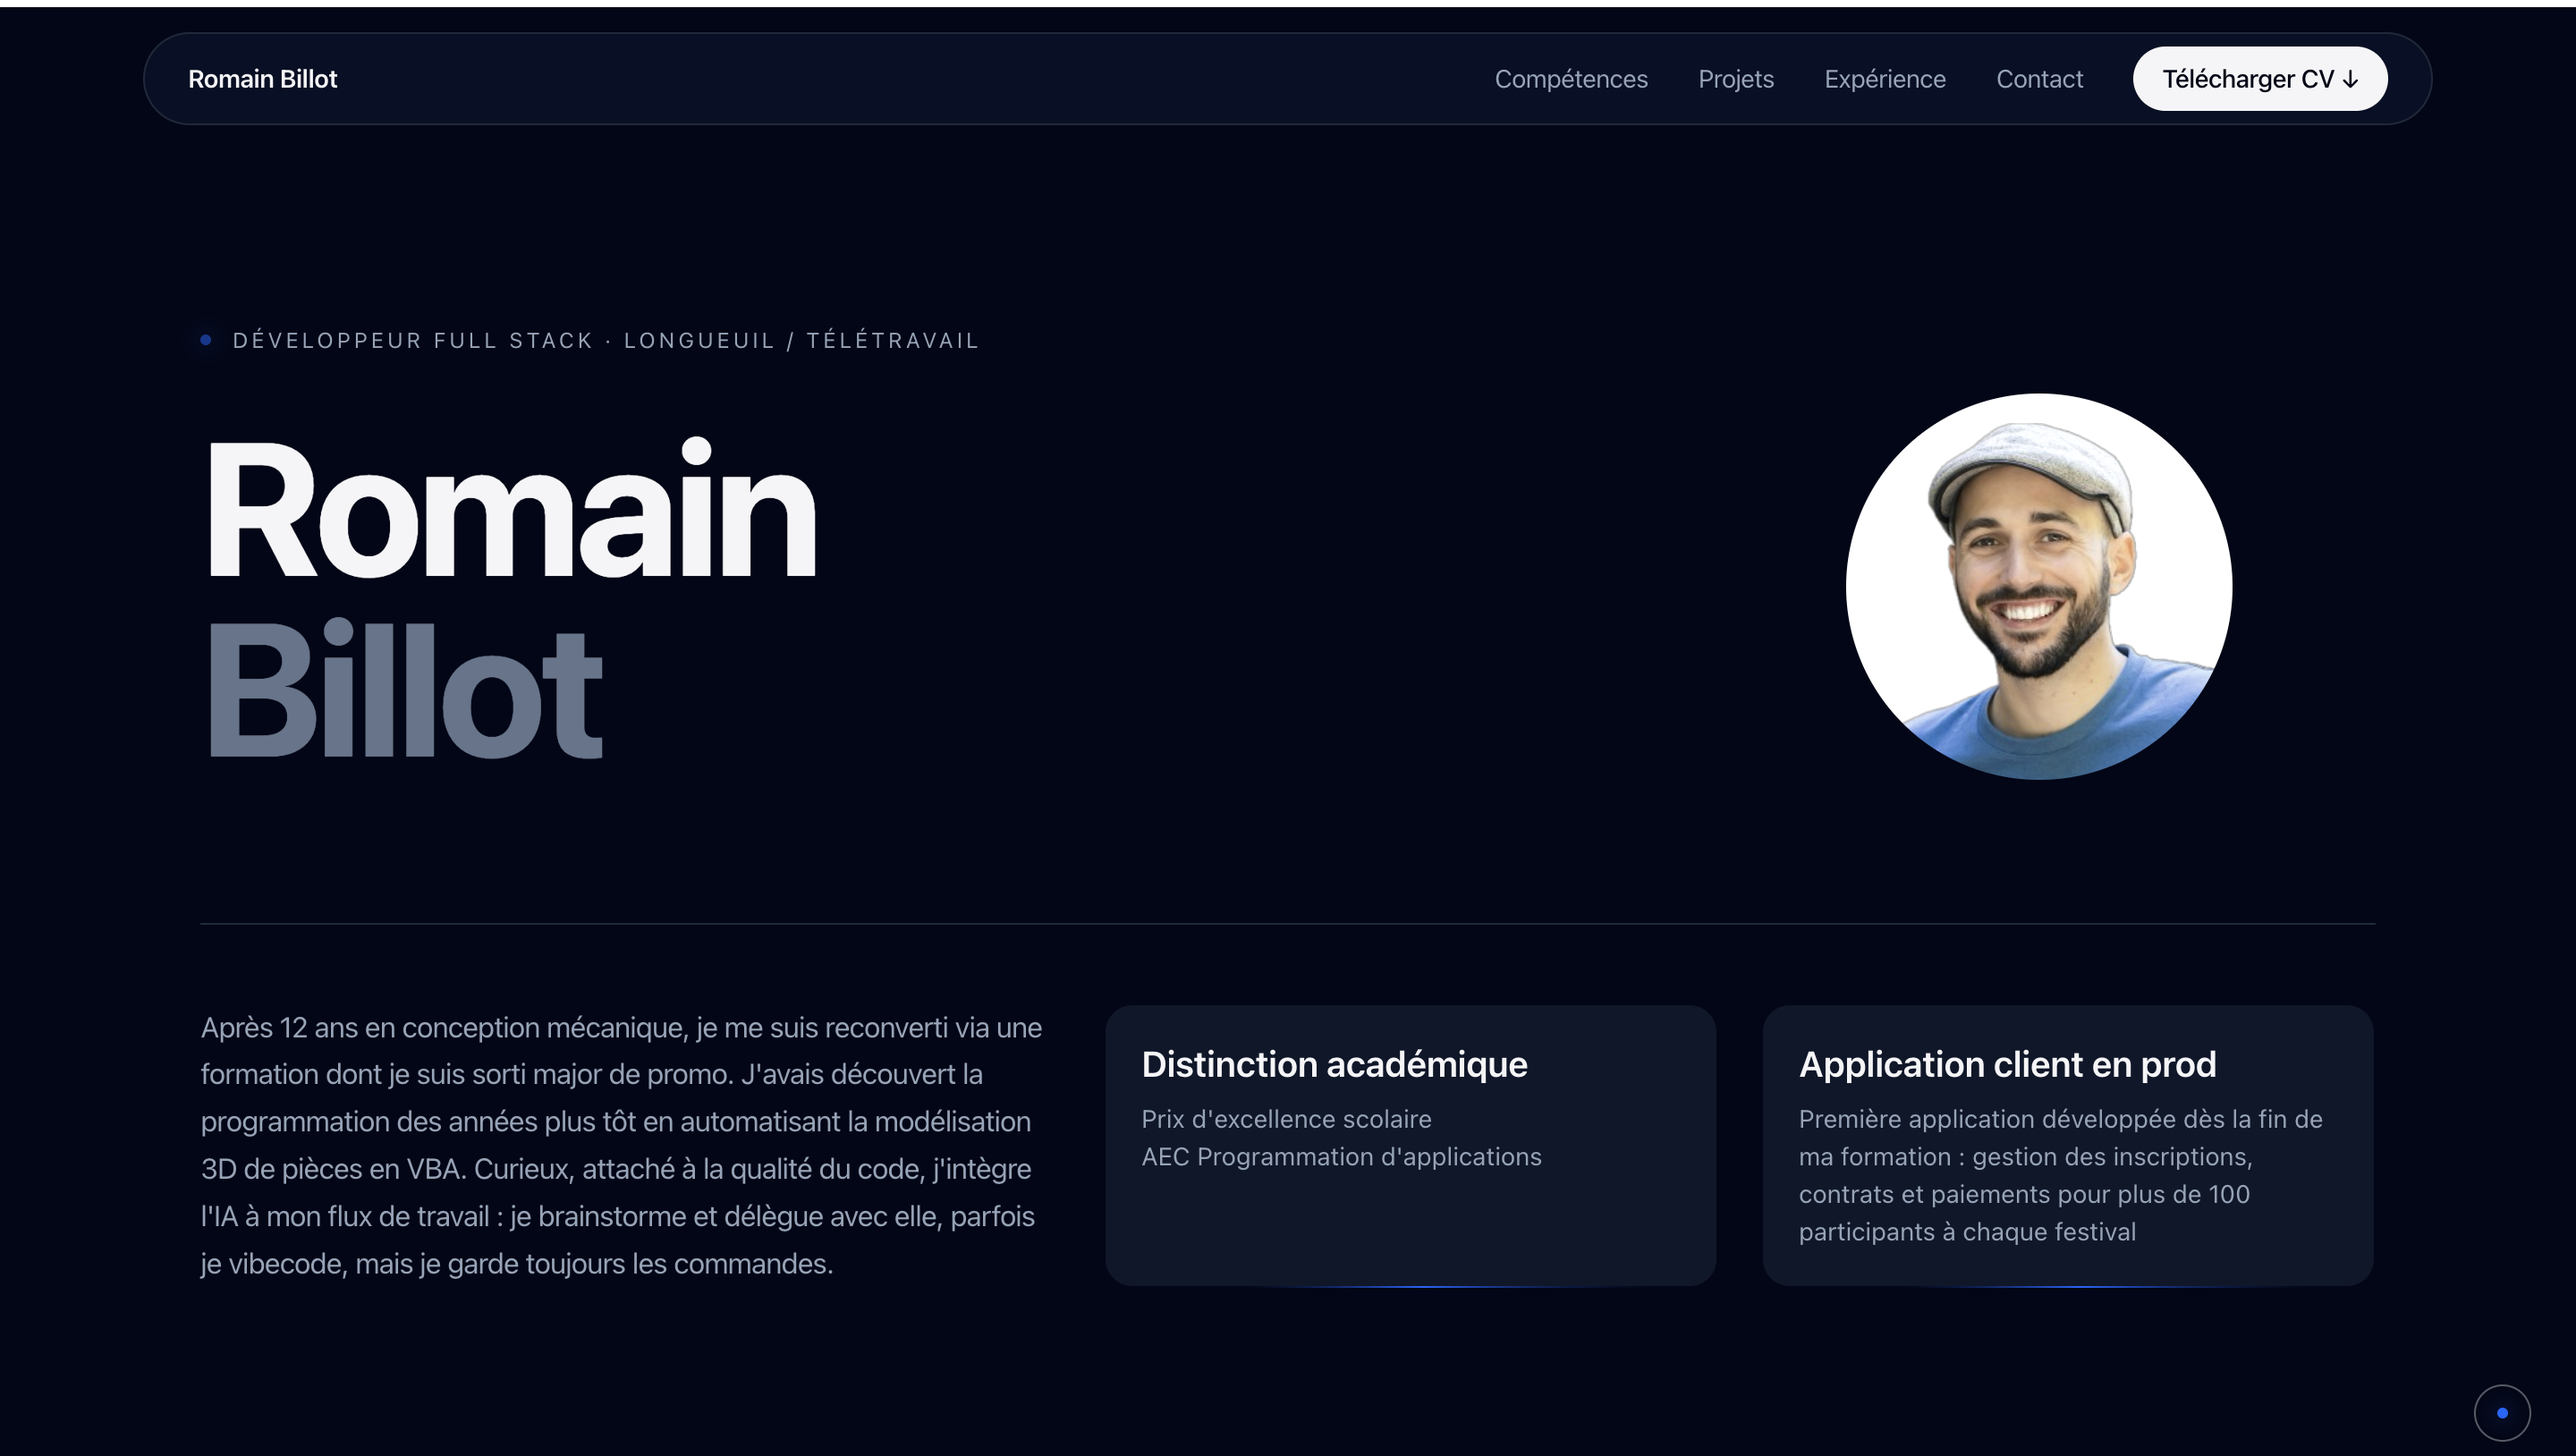
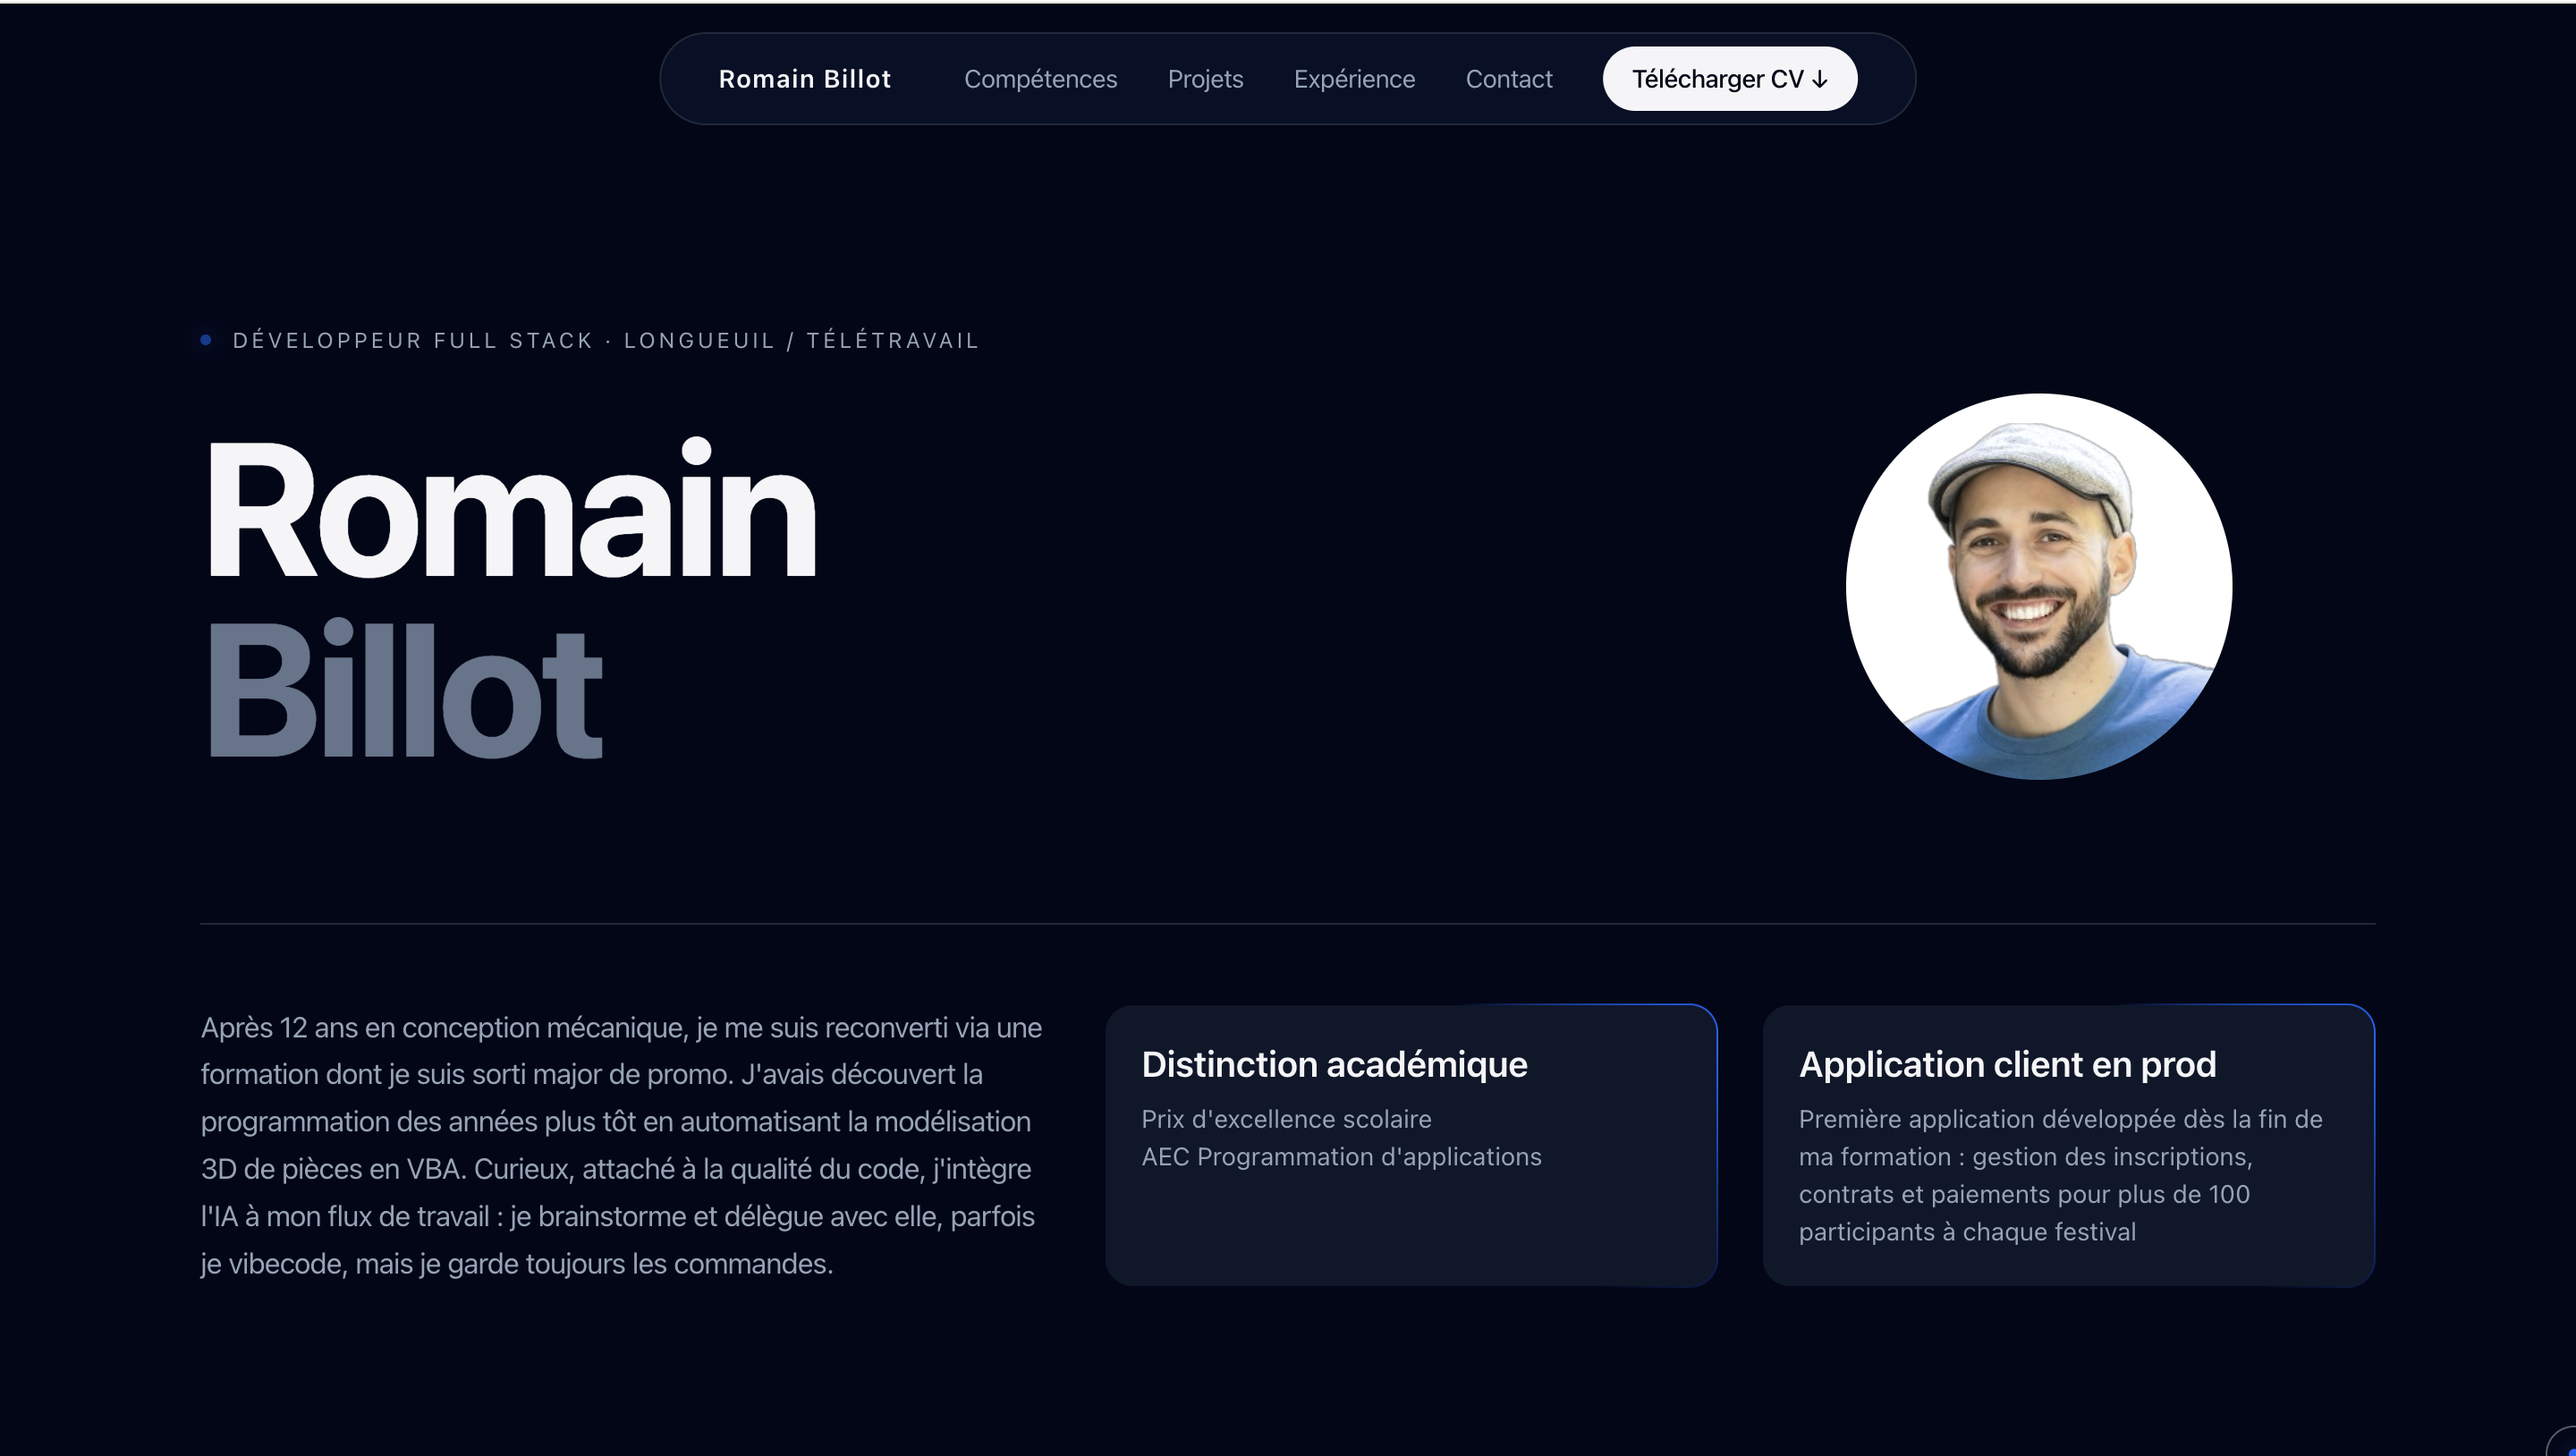
fix: update GitHub link in CV and remove unused URL field

Changed region(s): [[0.0, 0.0, 1.0, 0.0921]]

diff --git a/src/sections/projects/ProjectDrawerCols.tsx b/src/sections/projects/ProjectDrawerCols.tsx
@@ -12,7 +12,7 @@ export function ProjectDrawerCols({project}: { project: Project }) {
 	if (cols.length === 0) return null;
 
 	return (
-		<div className="my-8 grid grid-cols-3 gap-5 border-t border-border pt-7 max-md:grid-cols-1 max-md:gap-6">
+		<div className="my-8 grid grid-cols-3 gap-5 max-md:grid-cols-1 max-md:gap-6">
 			{cols.map((c) => (
 				<div key={c.title}>
 					<h5 className="mb-3 text-xs font-medium uppercase tracking-[0.18em] text-muted">
